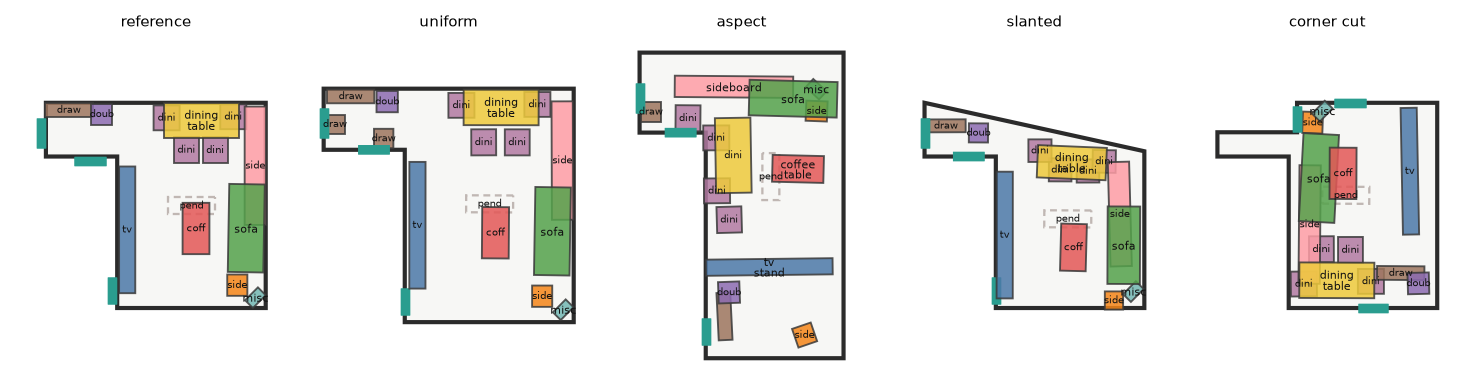
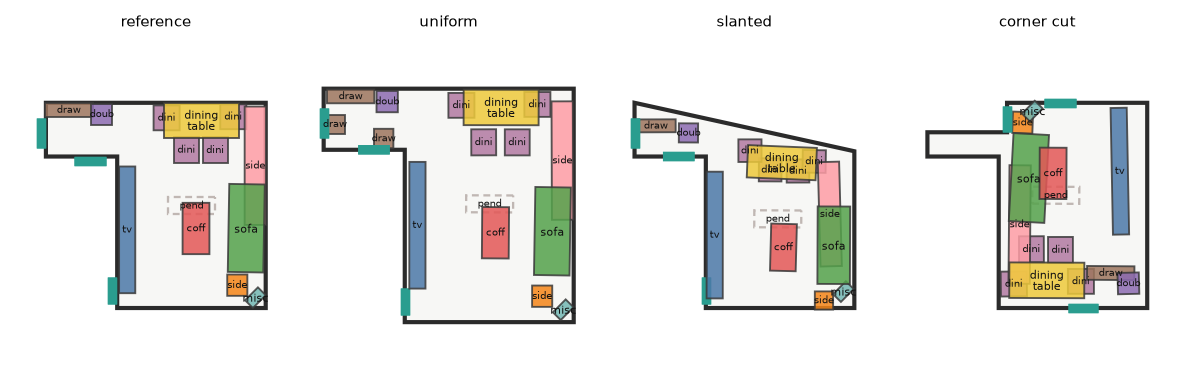
Fig 5: drop the aspect-change panel (poorly handled room type)
Crop the aspect column out of the deformation-family figure (levels.png), keeping
reference / uniform / slanted / corner-cut, and update the caption accordingly.

diff --git a/v0.1.html b/v0.1.html
@@ -271,7 +271,7 @@ $$\Pi_\theta(\hat x_1)=\underset{x}{\arg\min}\;\underbrace{w_a\lVert x-\hat x_1\
 <p>With no paired retargeting data, we run the problem backwards: take a real 3D-FRONT <a class="cite" href="#r10">[10]</a> scene as ground truth \(S_\text{tgt}\), deform its boundary through a parametric family, and inverse-map the layout (each motif moved as a rigid body) to synthesize the reference \(S_\text{ref}\). Rigidity makes the pair a physically causal design transition.</p>
 <figure>
   <img src="assets/levels.png" alt="Parametric room deformation family">
-  <figcaption><strong>Figure 5: Deformation family.</strong> Uniform scale, aspect change, slanted wall, and corner cut (concave). The real scene is GT; the deformed-boundary layout is the synthetic reference, so intent transfer is causal by construction.</figcaption>
+  <figcaption><strong>Figure 5: Deformation family.</strong> Uniform scale, slanted wall, and corner cut (concave). The real scene is GT; the deformed-boundary layout is the synthetic reference, so intent transfer is causal by construction.</figcaption>
 </figure>
 <p><strong>Four physical gates:</strong> (i) area-ratio resampling \(\rho\in[0.5,2.0]\); (ii) out-of-bounds rejection; (iii) rigid shared-translation pushing footprints poking through walls inward (overhang 25.1%→1.1%); (iv) a three-way collision audit separating true collisions, nestable pairs (chair-under-table, bed-with-nightstand) and z-separated objects (lamp/rug), so synthetic collision never exceeds the real source. A real <strong>cross-pairing</strong> set (human designs matched across rooms by category Jaccard \(&gt;0.6\) and anchor-yaw \(\le 30^\circ\), aligned by a Hungarian assignment <a class="cite" href="#r17">[17]</a>) serves as an out-of-distribution test (§5.2.4, Table 8): retargeting into these real unseen boundaries preserves relations at \(S_\text{rel}=0.865\), confirming the flow generalizes rather than inverting the synthetic deformation family.</p>
 
